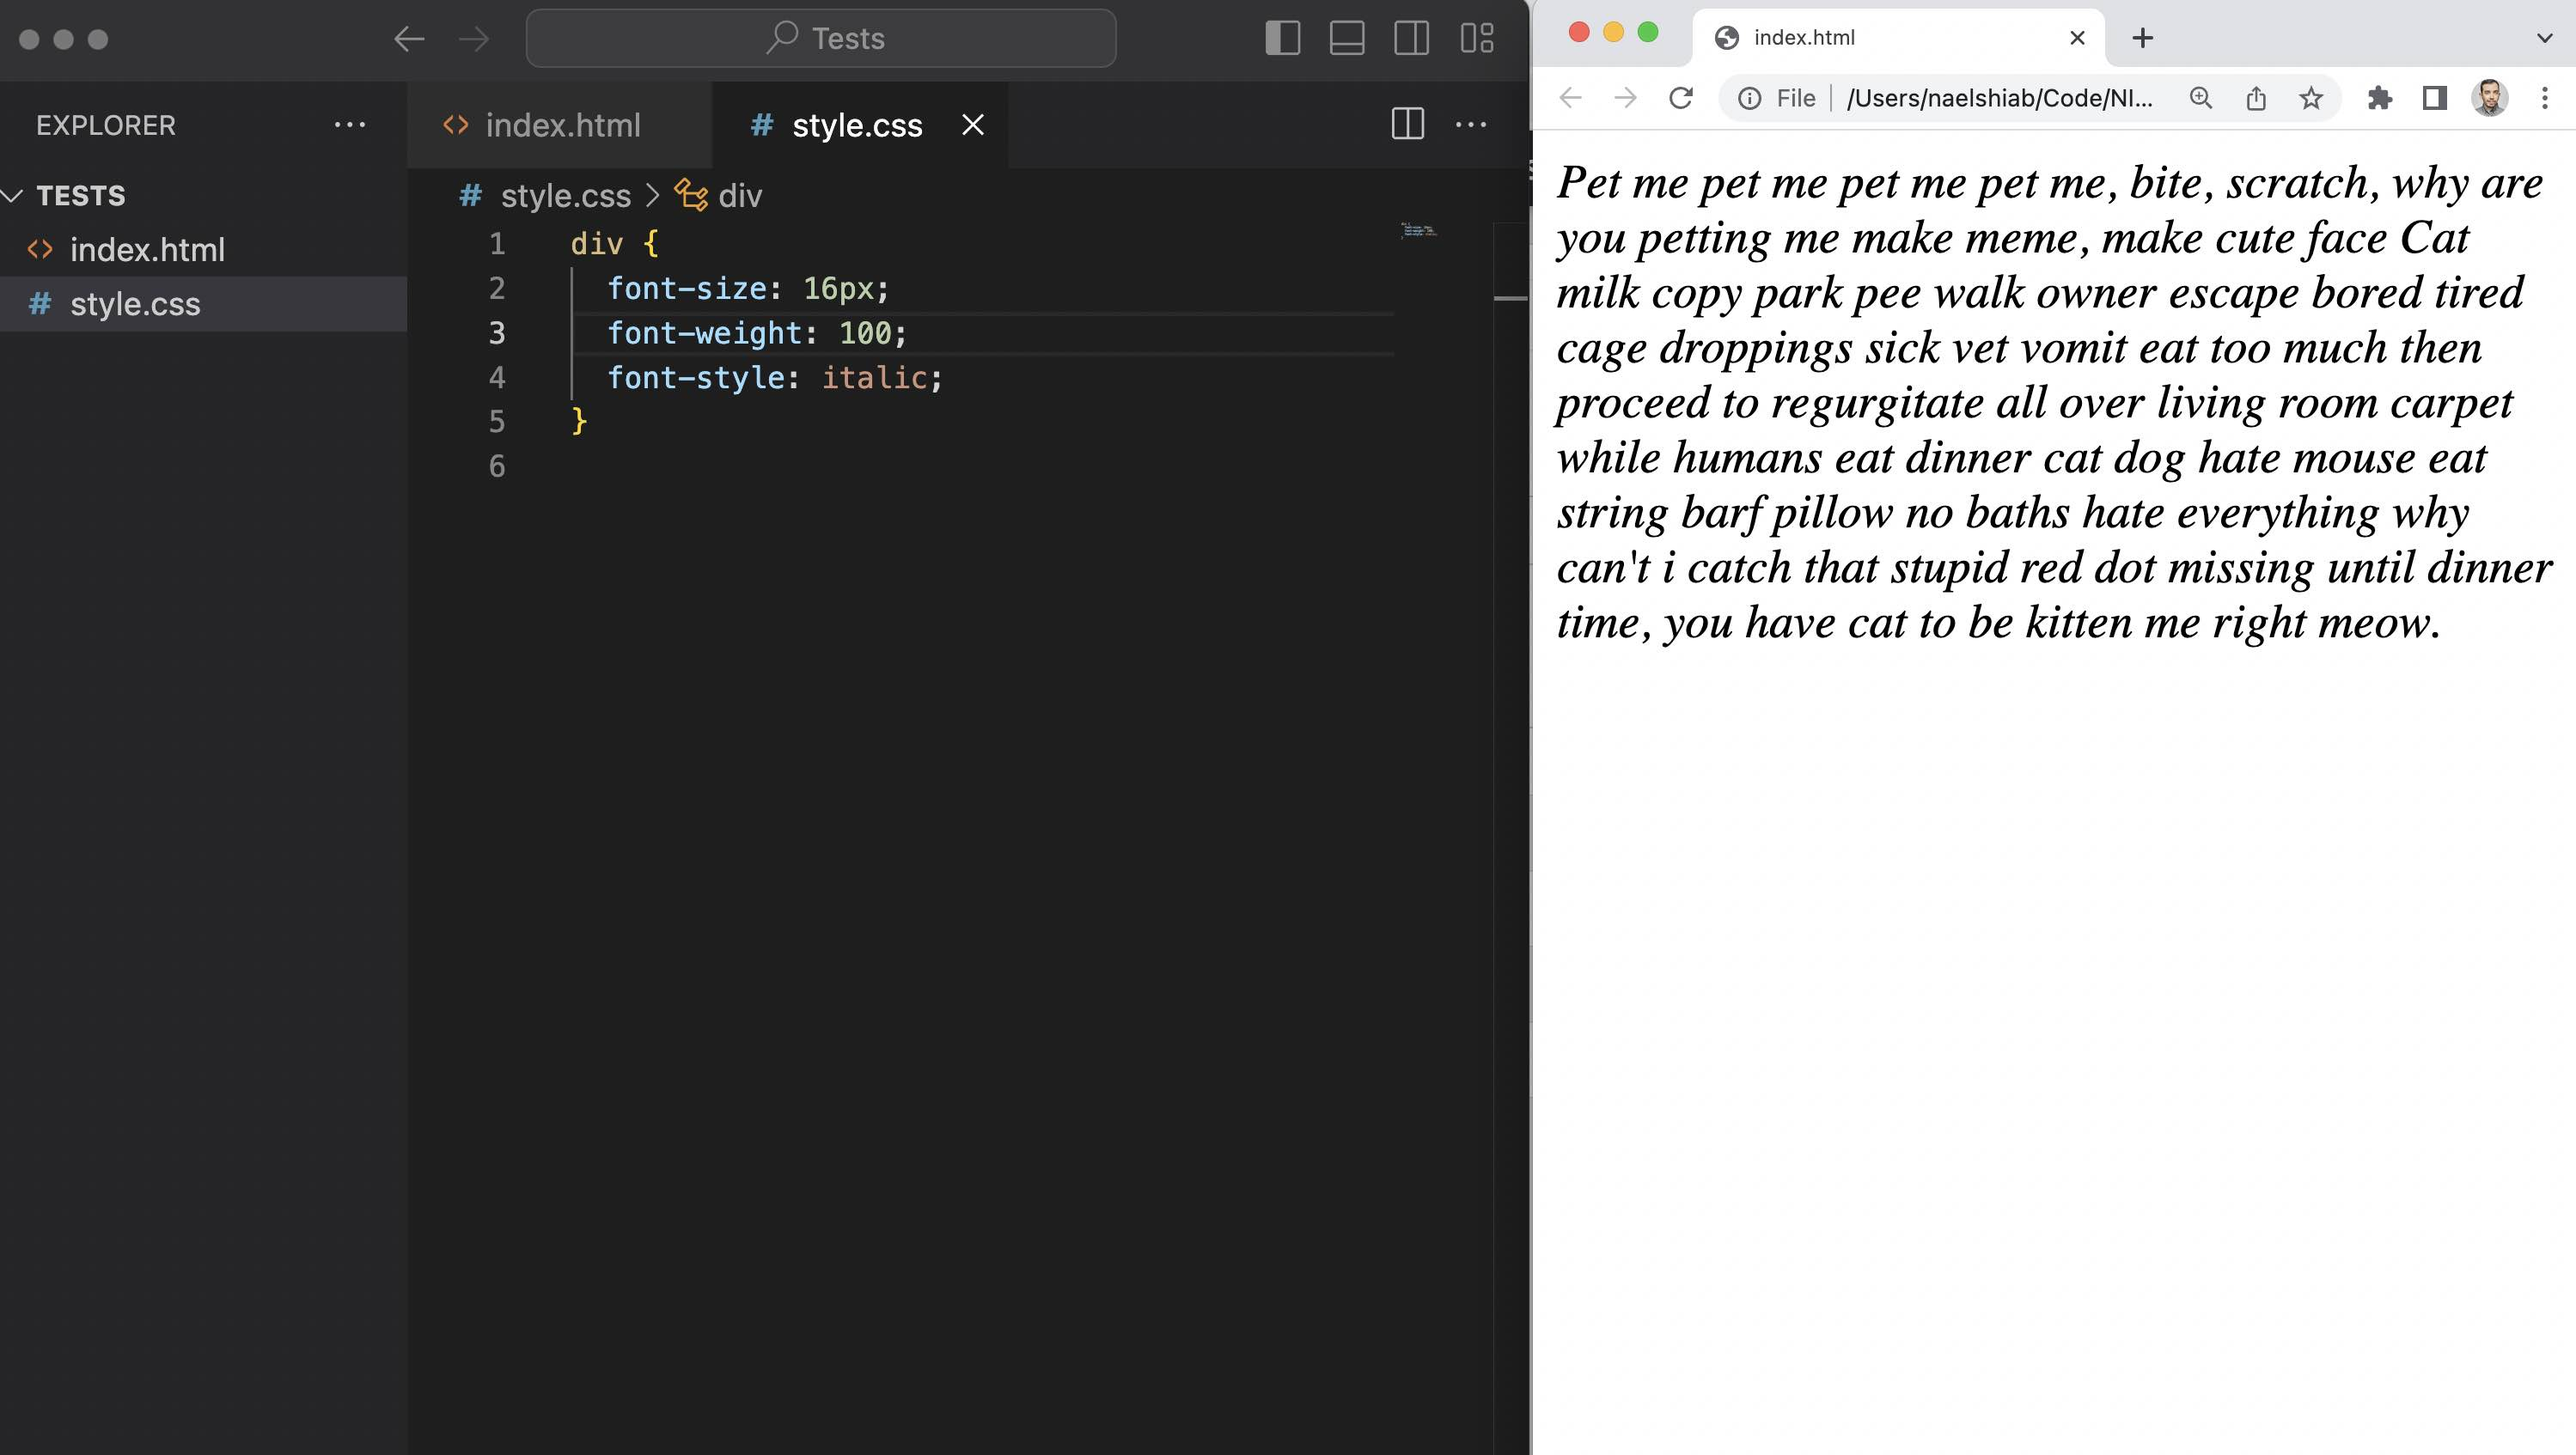
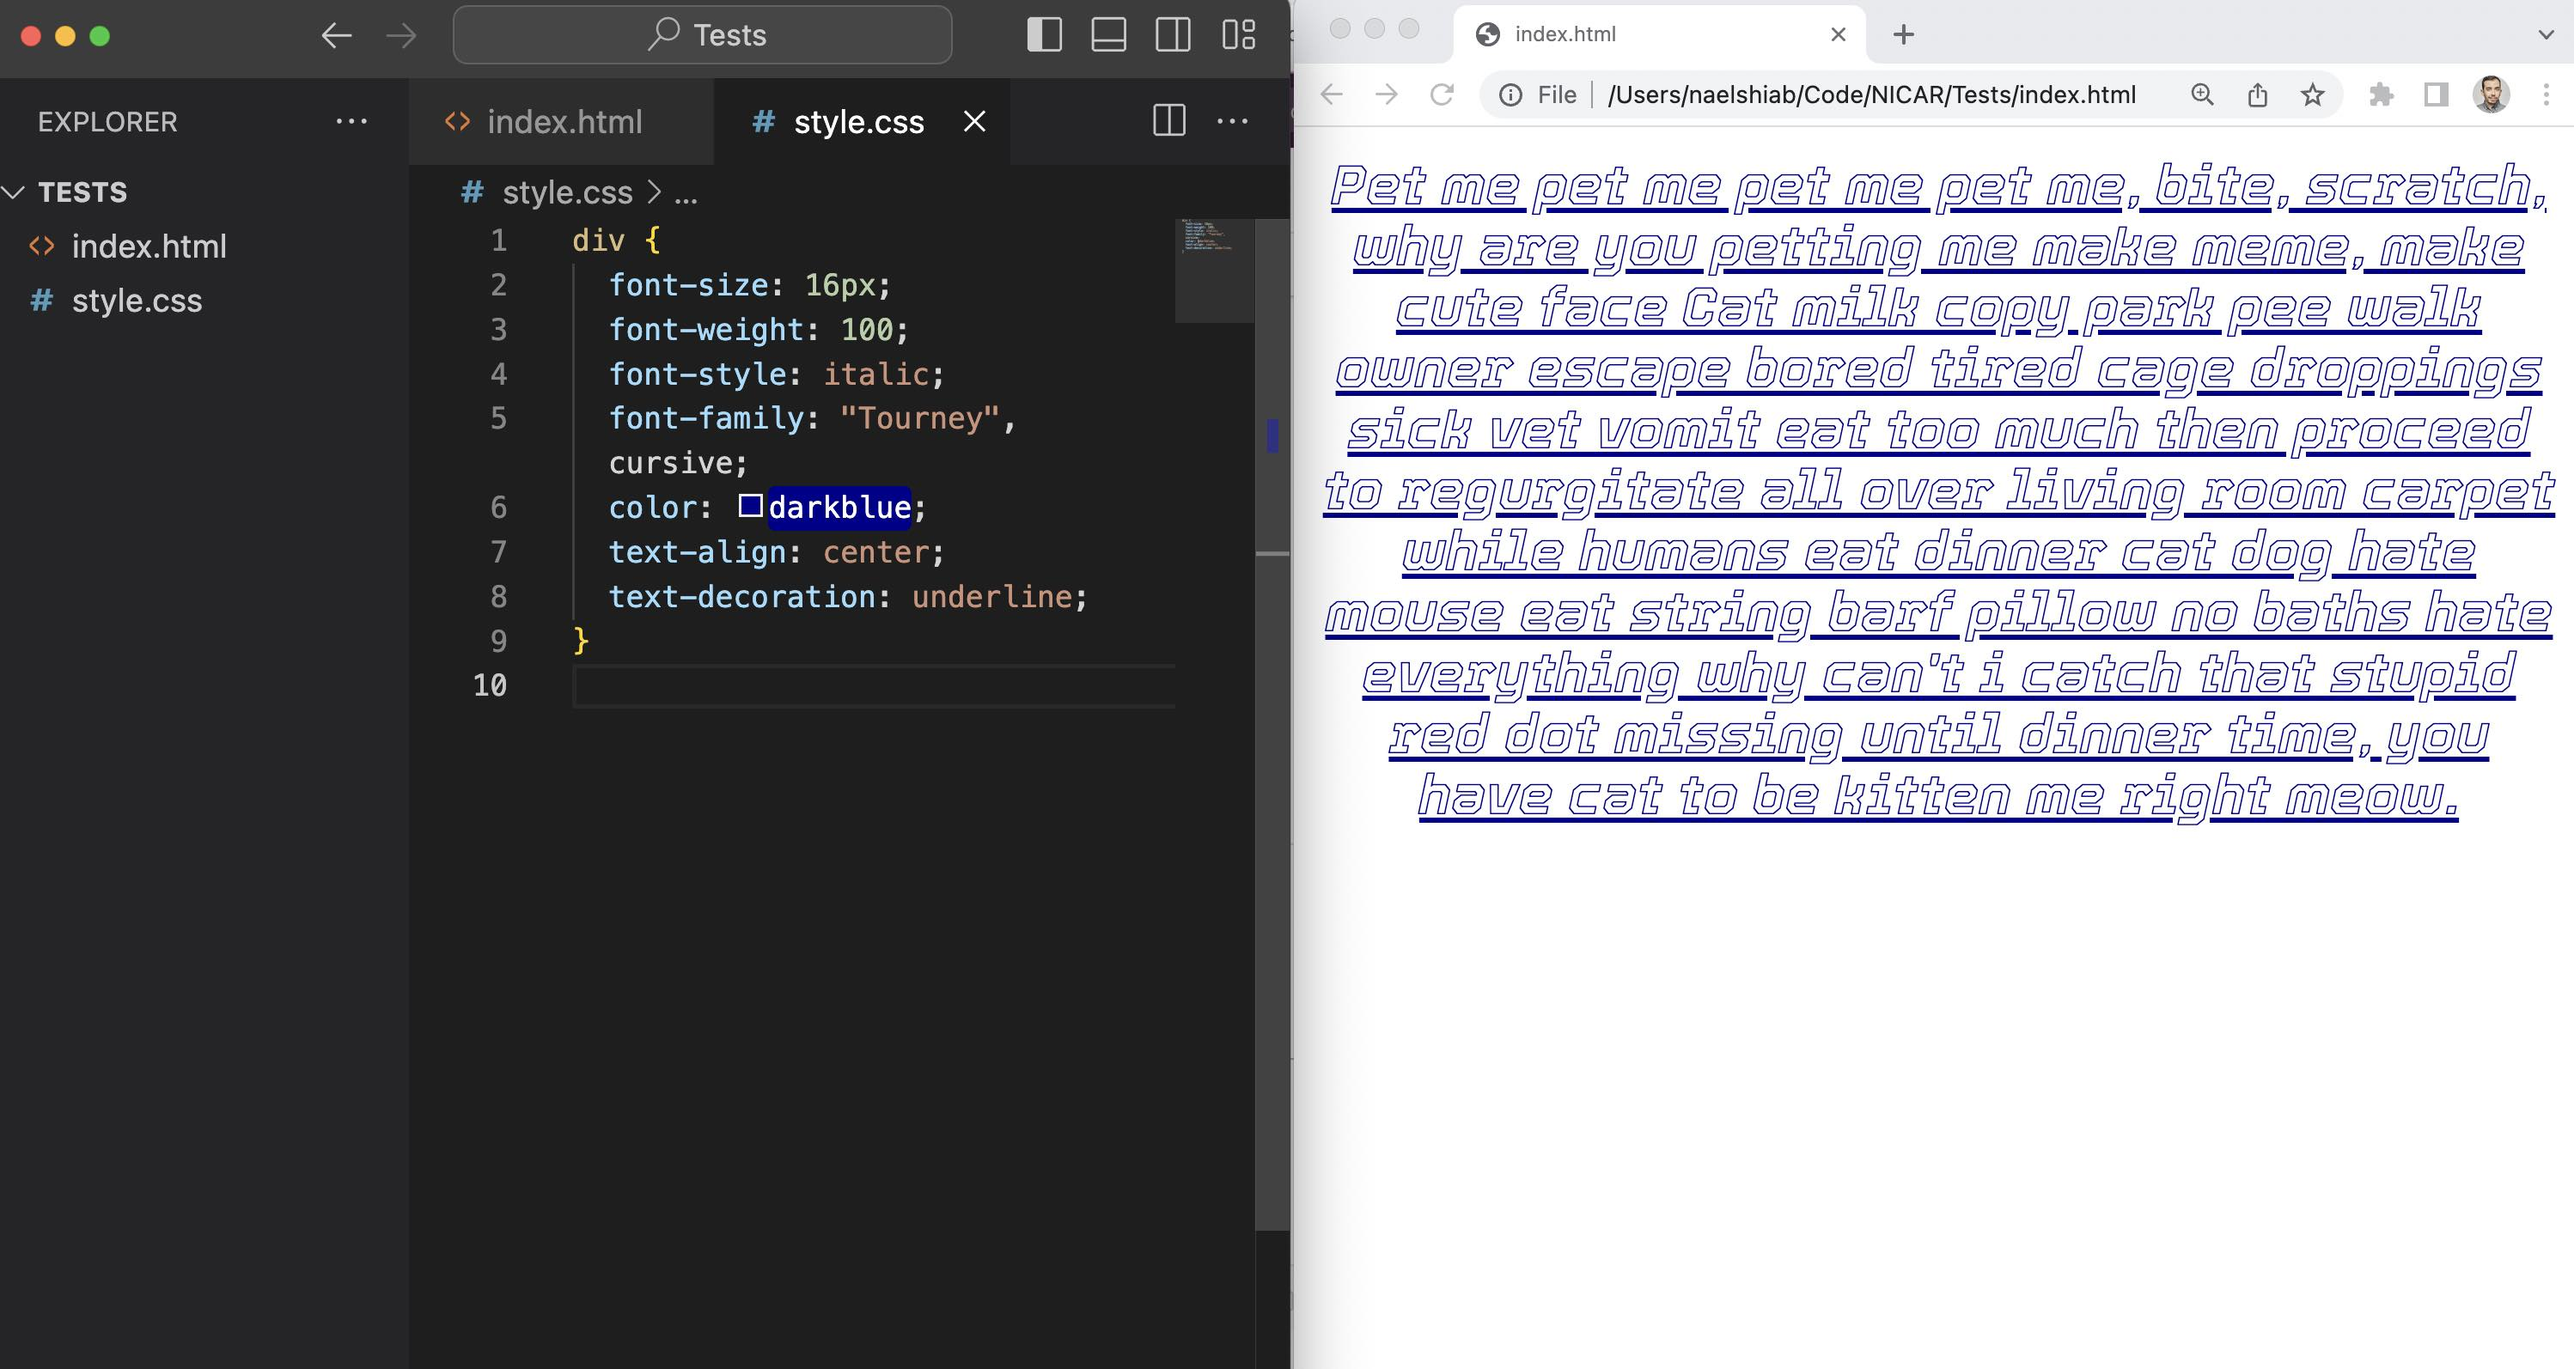
text properties done

diff --git a/02_CSS/README.md b/02_CSS/README.md
@@ -1,5 +1,13 @@
 # CSS
 
+## What is it?
+
+To do.
+
+## Selectors
+
+To do.
+
 ## CSS Properties
 
 To change the appearance or the behavior of an HTML element, you can assign it a CSS property.
@@ -51,14 +59,16 @@ Here's how it looks for now.
 These properties allow you to change the properties of the font.
 
 - [font-size](https://www.w3schools.com/cssref/pr_font_font-size.php): the size of the text, usually in pixels.
+
 - [font-weight](https://www.w3schools.com/cssref/pr_font_weight.php): the weight of the text, usually a value between 100 and 900. Normal is 400 and 700 is bold.
+
 - [font-style](https://www.w3schools.com/cssref/pr_font_font-style.php): you can choose between normal, and italic.
 
 In our CSS file, let's add a font-size of 16px, a font-weight of 100, and a font-style italic.
 
-![A CSS file with text properties and the result in the browser](./img/properties/text-properties.jpg)
+![A CSS file with text properties and the result in the browser](./img/properties/font-properties.jpg)
 
-If you want to change the font, you need to overwrite the default font-family properties.
+If you want to change the font, you need to overwrite the default font-family property.
 
 - [font-family](https://www.w3schools.com/cssref/pr_font_font-family.php): the font you want to display. [Google Fonts](https://fonts.google.com/) offers a lot of them, for free.
 
@@ -78,11 +88,19 @@ Here's the result!
 
 ### Text properties
 
-text-color
+With CSS, you can change the styling of your text.
 
-text-alignment
+- [color](https://www.w3schools.com/css/css_text.asp): you can use a [color name](https://www.w3schools.com/colors/colors_names.asp) (like "pink"), a [HEX value](https://www.w3schools.com/colors/colors_hexadecimal.asp) ("#FFC0CB" is pink), or an [RGB value](https://www.w3schools.com/colors/colors_rgb.asp) ("rgb(255,192,203)" is pink too).
 
-text-decoration
+- [text-align](https://www.w3schools.com/css/css_text_align.asp): you can use left, center, justify, or right, to align horizontally your text.
+
+- [text-decoration](https://www.w3schools.com/css/css_text_decoration.asp): you have the choice between underline, line-through, and overline.
+
+Let's update our code with darkblue as a color, center as alignment, and underline for text-decoration.
+
+Looking good!
+
+![A CSS and HTML files creating an underlined blue paragraph.](./img/properties/text-properties.jpg)
 
 ### Background properties
 
@@ -105,6 +123,8 @@ border
 margin
 
 padding
+
+### Position
 
 ### Media queries
 
